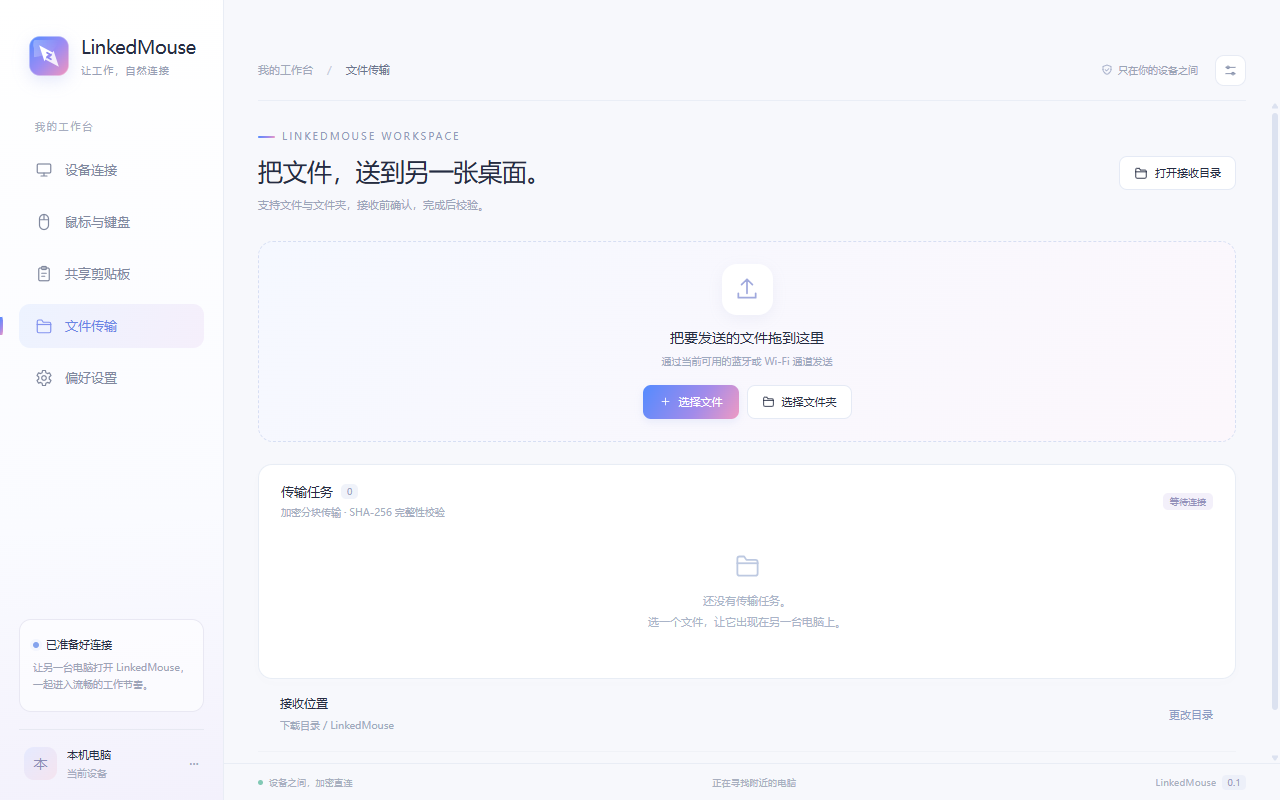
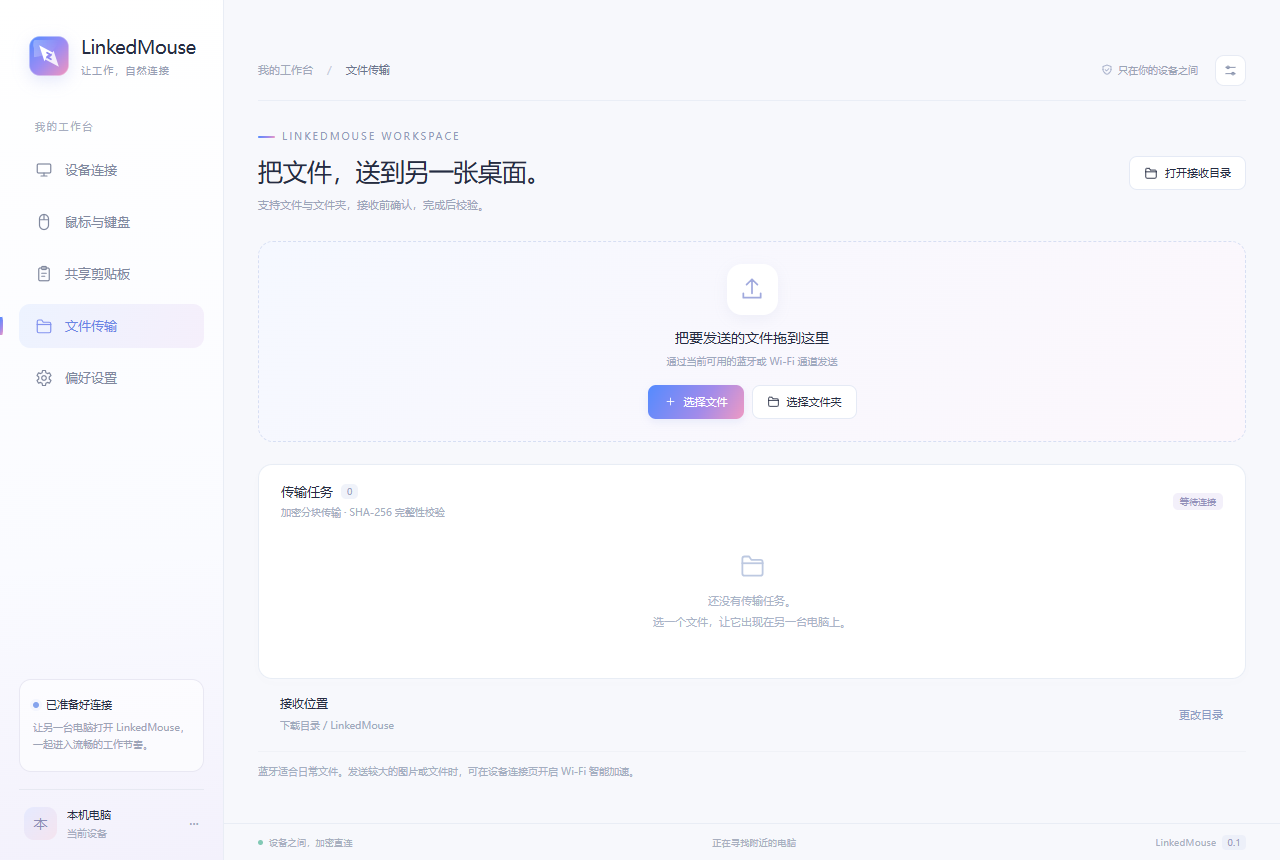
Document v0.1.2 prepared handoff and persistent background input

diff --git a/docs/VALIDATION.md b/docs/VALIDATION.md
@@ -1,4 +1,19 @@
-# 0.1.1 验证记录
+# 0.1.2 验证记录
+
+日期：2026-10-27。环境：单台 Windows 11 x64。
+
+- 原生 Release 自包含构建，0 个错误、0 个警告；30 组原生自检通过。
+- 新增检查覆盖四方向、负坐标、显示器间隙和混合 DPI；预热不注入光标/按键；撤回取消；最终提交使用最新边缘位置；修饰键交接；绝对位置和旧序号隔离；100 次快速往返且本地返回不等待对端回包；拖拽保护；断线/锁定回收；拥堵位置覆盖和点击位置顺序；后台物理释放覆盖过期异步按钮状态。
+- 在真实双向 TLS 的 19/31 字节碎片流上完成显示器协商、预热确认、提交、位置快照和本地预测返回检查。此项不使用物理蓝牙。
+- 6 项 Node 测试通过：原有界面通信 4 项，新增最小化/失焦/关闭到托盘的刷新与真实退出清理 2 项。
+- 8 个真实原生进程回环场景通过：原有 7 项加后台监听重挂，核对键盘/鼠标钩子和 Raw Input 注册仍有效、连接未断开。
+- 真实 Electron 主窗口：5 个页面、传输进度/重试/转义、预热设置控件、FileList 桥接通过。实际调用最小化和关闭，检查窗口保留、原生通信可用，后台两类钩子与 Raw Input 注册有效；测试过程中没有点击桌面。
+- GUI 测试使用独立配置目录、禁用蓝牙/键鼠共享/剪贴板，不抢占使用中的界面或向真实桌面注入测试鼠标。逻辑回放、TLS 和 GUI 生命周期检查不等同于实际双机跨屏。
+- 新诊断位于 `input.preparation`、`input.background`、`input.crossings` 与 `inputQueues`；不记录普通按键字符或剪贴板正文。本机时间不能跨机器相减当作显示延迟。
+
+尚未执行：两台物理电脑的 BLE 鼠标切换、窗口隐藏时实际跨屏手感、VPN/TUN/Wi-Fi Direct 共存及同设备性能对照。验收步骤见 TESTING.md。
+
+## 0.1.1 历史验证
 
 日期：2026-10-27。当前验证仍在单台 Windows 11 x64 开发电脑上完成。
 

diff --git a/CHANGELOG.md b/CHANGELOG.md
@@ -1,5 +1,19 @@
 # 更新记录
 
+## 0.1.2 — 2026-10-27
+
+- 新增双向预热：靠近连接边缘时提前准备虚拟落点和光标资源，越界提交后才注入输入；预热可取消、过期，旧预热消息失效。
+- 默认自动计算预热宽度，提供开关和 64/96/128/192/256 逻辑像素选择。两端都支持新协议时启用，旧版本继续基础跨屏。
+- 输入源维护副机逻辑位置，普通移动改为带序号的位置快照；拥堵时覆盖旧位置，保留最终位置和点击顺序。
+- 输入源本地预测返回，不等待副机返回通知；新模式不使用固定 250 ms 往返冷却，采用小越界门槛和输入序号隔离。
+- 预热期间键鼠保持在当前电脑，提交时交接必要修饰键；按住鼠标按钮时保持当前电脑，释放后允许跨屏。
+- 修复后台监听易受窗口生命周期影响的问题：关闭窗口改为隐藏到托盘，最小化/隐藏/失焦后刷新原生监听；独立跟踪物理按钮释放，原生核心关闭后台节流，界面隐藏不停止输入。
+- 增加预热命中/取消、位置序号、预测返回及后台钩子/Raw Input 注册诊断。
+- 30 组原生检查、6 项 Node 测试、8 个双进程回环场景通过；真实 Electron 窗口最小化、关闭到托盘后原生通信与后台监听检查通过，无需桌面点击。
+- 单机检查不替代物理双机 BLE、VPN/TUN 和显示延迟实测；本版继续标记预览版。
+
+两台电脑都退出旧版并升级到 0.1.2，原配对身份保留。
+
 ## 0.1.1 — 2026-10-27
 
 - 修复跨屏移动等待接管回执后集中补发的问题，接管与输入走同一有序队列。

diff --git a/docs/TESTING.md b/docs/TESTING.md
@@ -31,6 +31,19 @@
 
 ## 性能对照
 
+### 0.1.2 双向预热与后台验收
+
+1. 两端退出旧版并运行 0.1.2，在“鼠标与键盘”开启“双向预热”，宽度先选自动。原有配对可保留。
+2. 主机在右、副机在左时，主机靠近左侧区域：主机继续处理鼠标、键盘和点击，副机无光标跳动、无输入；移开区域应取消预热。上下、左右方向分别检查。
+3. 真正向外越界后，检查光标从副机正确边缘接管；快速移动的真实越界距离允许进入屏幕内部，预热阶段的历史移动不得整包重放。
+4. 在副机上移动同一个物理鼠标返回主机，连续快速往返至少 100 次，检查无固定冷却停顿、无旧序号回跳、无卡键。
+5. 按住 Ctrl/Shift 跨屏后组合输入并返回；拖动窗口/选中文字时保持当前电脑，释放按钮后再跨屏。
+6. 分别将两端窗口最小化、点关闭隐藏到托盘，不点击桌面，直接跨屏；比较诊断 `input.background` 的钩子和 Raw Input 注册、重挂次数。
+7. 预热时撤回、锁定、关闭蓝牙、锁屏/解锁、更改显示器布局；检查接管取消、恢复后可再次准备，旧预热包不激活输入。
+8. 传文件和同步截图时重复以上操作，记录预热命中率、位置合并、预测返回和 RTT。关闭预热与 0.1.1 做同设备对照，单独记录窗口后台场景。
+
+### 0.1.1 历史验收
+
 先验证 0.1.1 修复，再与其他软件比较：
 
 1. 两端退出旧版，安装或解压 0.1.1，关闭 Wi-Fi 加速，保留原配对身份。不要同时运行两个版本。

diff --git a/THIRD_PARTY_NOTICES.md b/THIRD_PARTY_NOTICES.md
@@ -12,6 +12,10 @@ Original source headers and the upstream THIRD_PARTY_NOTICES are preserved.
 LinkedMouse 0.1.1 modifies Capture.cs to observe marked landing injections,
 Inject.cs to check cursor placement and keep a per-route logical position,
 and Screens.cs to allow isolated replay of monitor geometry.
+LinkedMouse 0.1.2 further modifies Capture.cs for preparation probes, physical
+button tracking and persistent background input; Inject.cs for modifier handoff;
+and HideCursor.cs for preallocated cursor resources. These changes are dated
+2026-10-27 in the modified source headers.
 Ble.cs in that directory is a reference; LinkedMouse's native Bluetooth transport
 adapts its GATT service/characteristic and reliable write approach, with new
 service UUIDs, an in-process stream, cancellation and bounded receive buffers.
